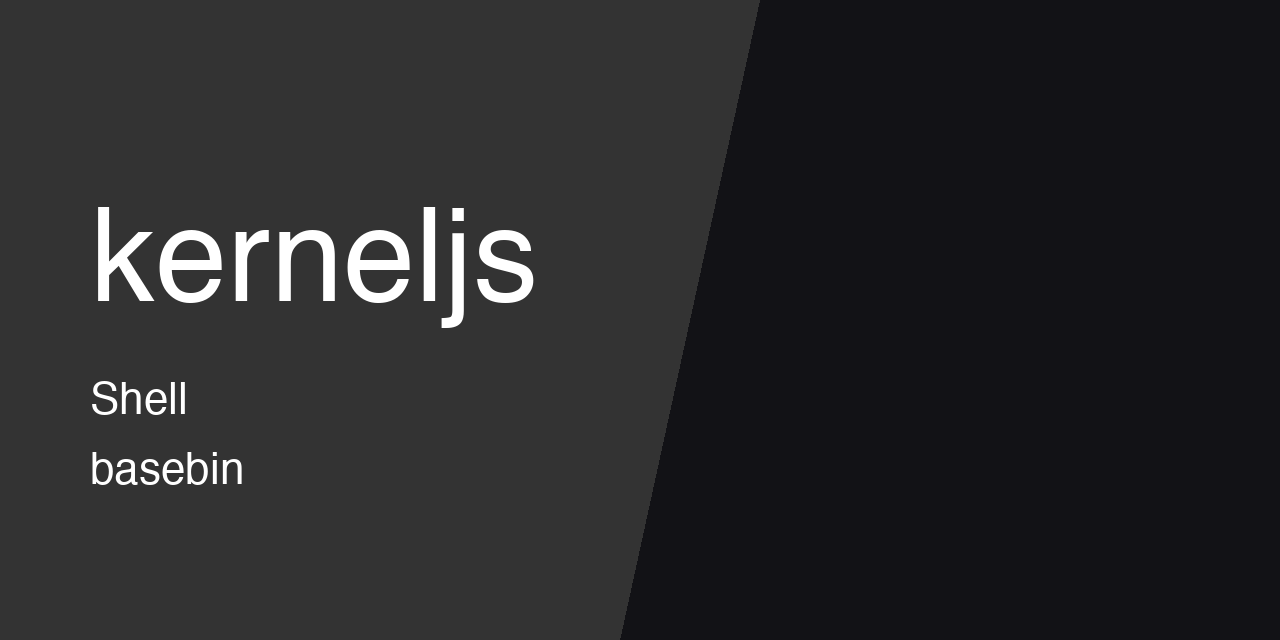
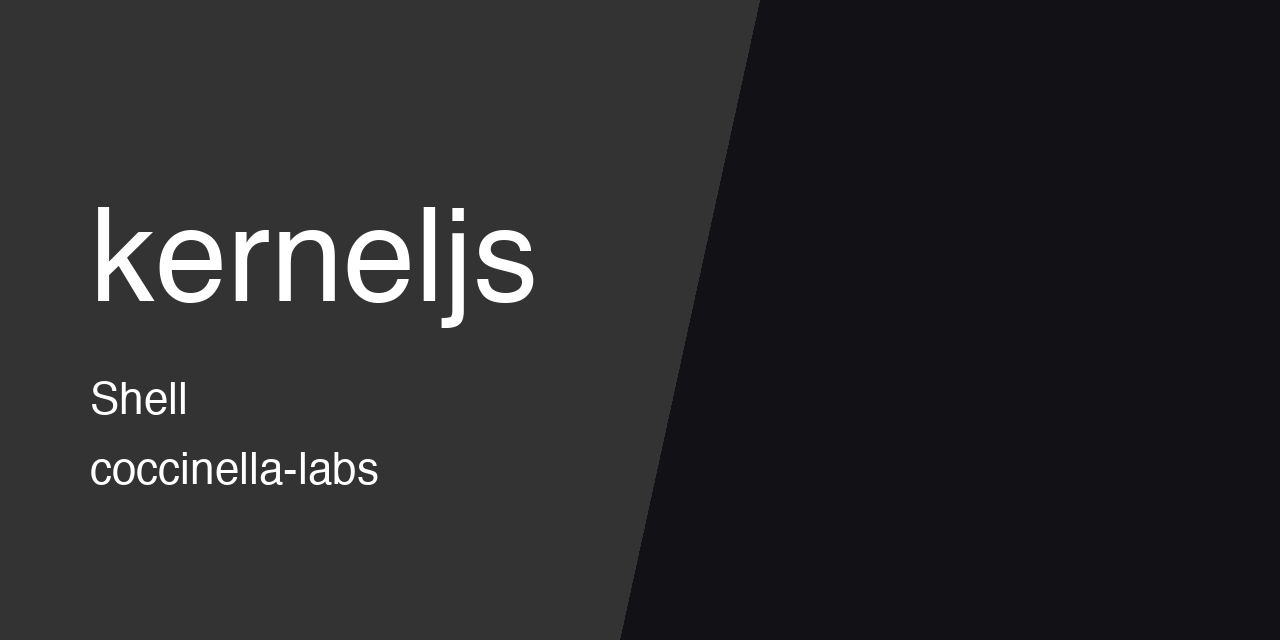
[docs] move thumbnail to coccinella-labs

Changed region(s): [[0.0625, 0.7188, 0.3125, 0.7812]]

diff --git a/README.md b/README.md
@@ -1,5 +1,5 @@
 <p align="center">
-  <img src="https://raw.githubusercontent.com/basebin/kerneljs/main/.github/assets/thumbnail.png" alt="kerneljs" width="100%">
+  <img src="https://raw.githubusercontent.com/Coccinella-Labs/kerneljs/main/.github/assets/thumbnail.png" alt="kerneljs" width="100%">
 </p>
 
 # macOS Kernel Tool (JS)
